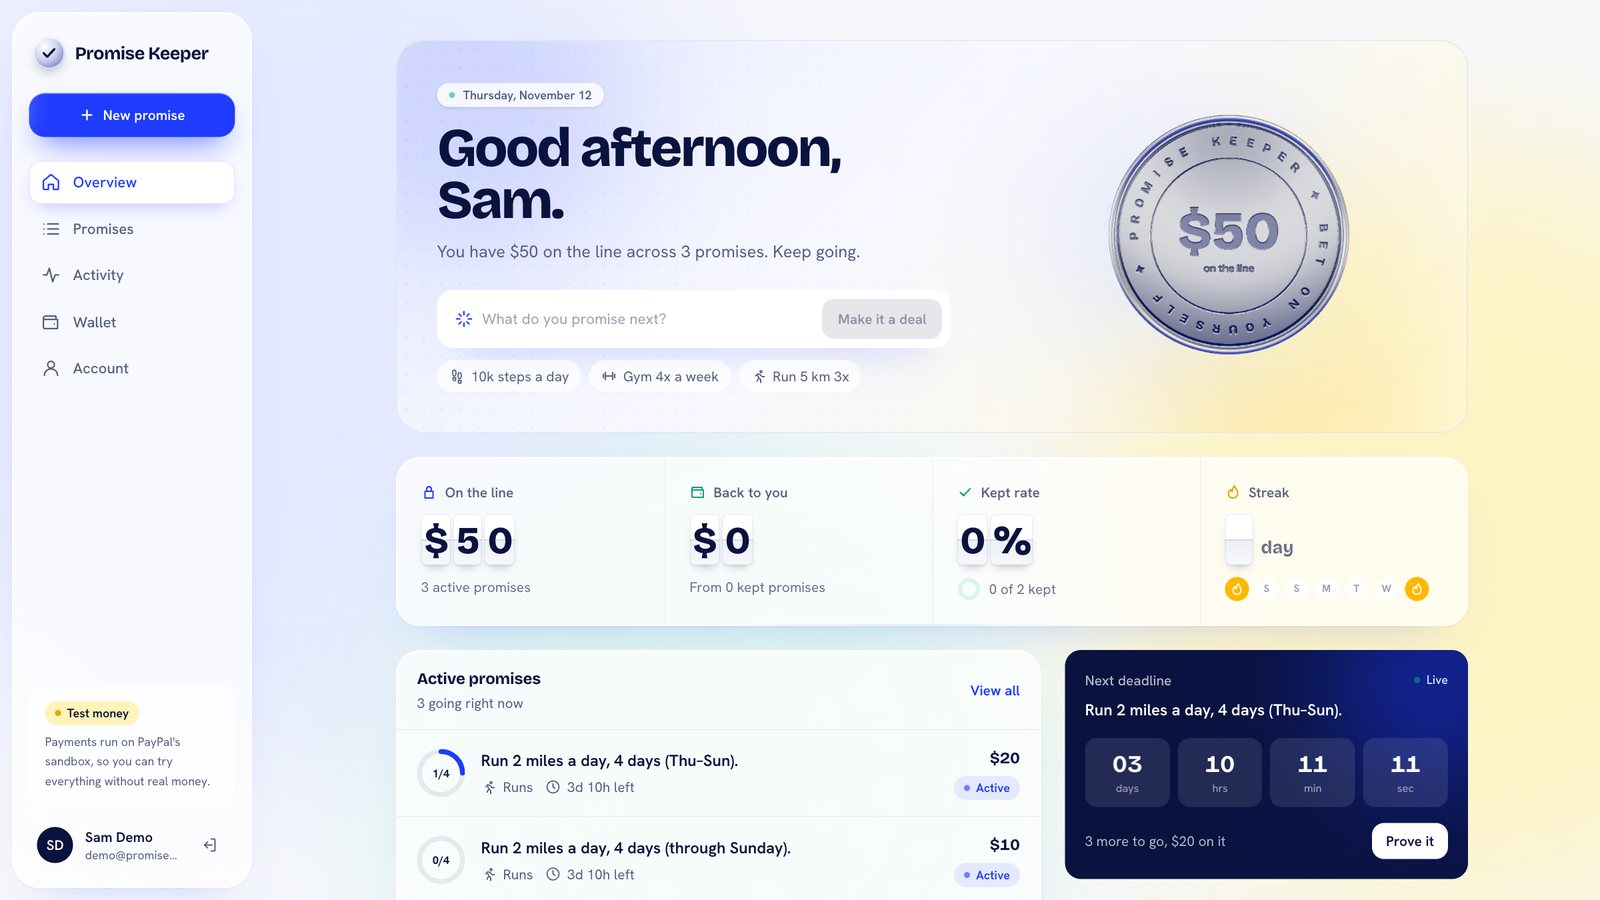
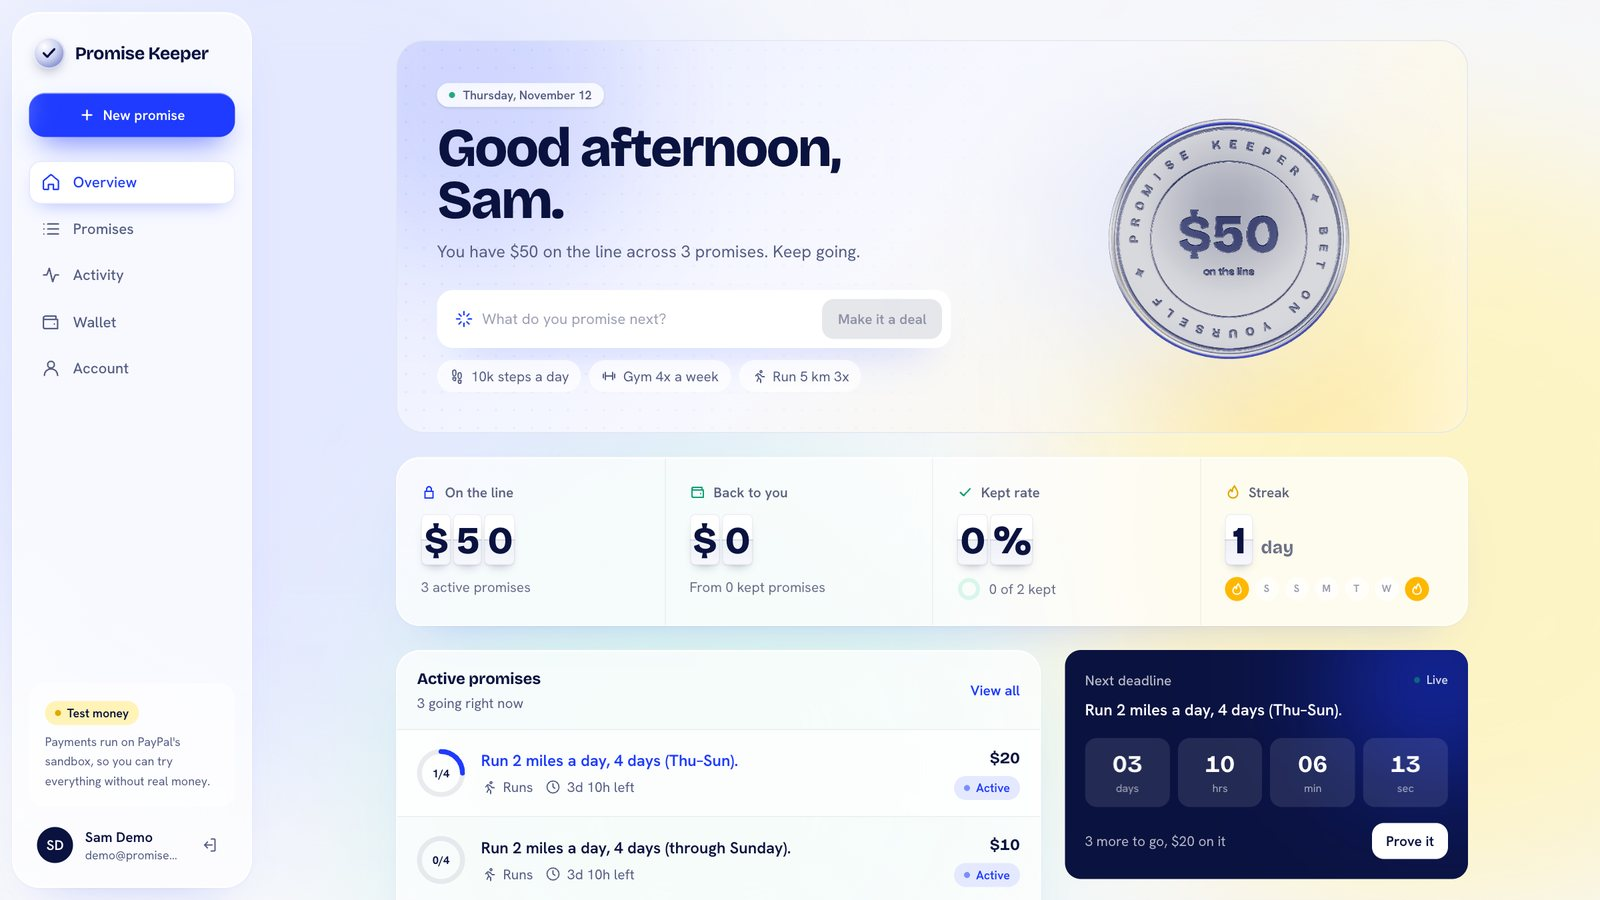
Add MIT license; README sections on PayPal, AI and sponsor tools

diff --git a/README.md b/README.md
@@ -90,6 +90,43 @@ Browser (React)  ──>  FastAPI backend  ──>  PayPal (orders, refunds, pay
    └───────────────────────┘                Strava / WHOOP (workouts)
 ```
 
+## How we use PayPal
+
+Everything runs in the **PayPal sandbox** (free developer environment). PayPal holds every stake and moves every dollar.
+
+| PayPal tool | What it does in Promise Keeper |
+|---|---|
+| **PayPal JavaScript SDK** (PayPal Buttons via `@paypal/react-paypal-js`) | The checkout on the deal screen. The user pays the stake in PayPal's pop-up, with a PayPal login or as a guest with a debit or credit card. |
+| **Orders API v2** (`POST /v2/checkout/orders`) | The backend creates an order for the exact stake, so the amount always comes from the server, never the browser. |
+| **Orders API v2, Capture** (`POST /v2/checkout/orders/{id}/capture`) | Captures the payment after approval. A promise only becomes active when the capture is `COMPLETED`. The payer's PayPal email is saved from the capture, so refunds go back to the account that paid. |
+| **Payments API v2, Refunds** (`POST /v2/payments/captures/{id}/refund`) | Refunds the full stake to people who kept their promise. Each refund sends a unique `PayPal-Request-Id`, so it can never happen twice. |
+| **Payouts API** (`POST /v1/payments/payouts`) | Sends a missed stake to the friend in one batch. Each batch has a unique `sender_batch_id`, so PayPal rejects repeats. |
+| **PayPal Agent Toolkit** (`paypal-agent-toolkit`, `get_order_details`) | Before the AI agent moves any money, it asks PayPal directly whether the stake was really captured for the right amount. No confirmation, no refund or payout. |
+| **OAuth 2.0** (`POST /v1/oauth2/token`) and **sandbox accounts** | Server-to-server authentication with the sandbox app's credentials. Tested with a sandbox business account and personal accounts for a player and a friend. |
+
+Code: [`backend/paypal.py`](backend/paypal.py), [`backend/settle.py`](backend/settle.py), [`frontend/src/components/DealSheet.jsx`](frontend/src/components/DealSheet.jsx).
+
+## How we use AI
+
+**Claude by Anthropic** (model `claude-opus-5-5`, through the Anthropic Python SDK) is the AI in Promise Keeper. Google Gemini is an automatic backup if Claude is unavailable.
+
+| Job | How Claude does it |
+|---|---|
+| **Promise reader** | Structured outputs turn "run 2 miles every day this week or $20 to Alex" into a deal (run 3.2 km, 4 times, by Sunday 11:59 PM, $20 to Alex). Code then checks every value (stake limits, dates, goal ranges). |
+| **Screenshot reader** | Vision plus structured outputs read the distance, steps or minutes and the date from Apple Health, Fitness rings, Strava, Fitbit or gym-app screenshots. Screenshots not from today, edited, or already sent are refused. |
+| **Live photo check** | Vision checks that a gym photo shows the one-time secret word and looks like a gym. |
+| **Promise agent** | Tool use. At each deadline Claude settles the pot with five guarded tools: get the facts, verify the stake (PayPal Agent Toolkit), refund a winner, send the payouts, and finish with a note for each person. Claude picks the order and writes the notes; the tools decide who kept their promise and every amount, so the AI can never pay the wrong person or pay twice. If the AI is down, the same tools finish in code. |
+
+Code: [`backend/ai.py`](backend/ai.py), [`backend/agent.py`](backend/agent.py), [`backend/settle.py`](backend/settle.py).
+
+## Sponsor tools and other technology
+
+- **Render (sponsor):** hosts the Python/FastAPI backend as a web service deployed from this repo. It is the only part of the app that holds secrets (PayPal, Anthropic, Supabase, Strava and WHOOP keys, all as Render environment variables), and it runs every PayPal call and the Claude promise agent.
+- **Vercel:** hosts the React frontend at https://promise-keep.vercel.app.
+- **Supabase:** Postgres database with row-level security, sign-in (email link and Google), and a private storage bucket for proof photos.
+- **Strava API and WHOOP API:** OAuth connections; recorded runs and workouts count as proof automatically.
+- **React Three Fiber / three.js, Motion, Tailwind CSS, Leaflet:** the 3D coin, animations, styling and the gym map.
+
 ## Project layout
 
 ```
@@ -196,3 +233,7 @@ The suite uses a fake database and a fake PayPal, and never calls the real Claud
 - Sitting in the gym without working out still passes the 30-minute check-in.
 - Apple Health has no web login, so Apple data comes from screenshots rather than a direct connection.
   A native iPhone app with HealthKit is the next step.
+
+## License
+
+[MIT](LICENSE)
